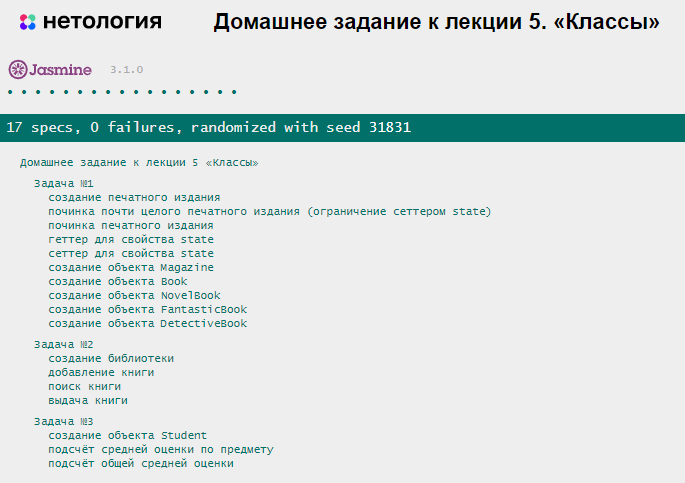
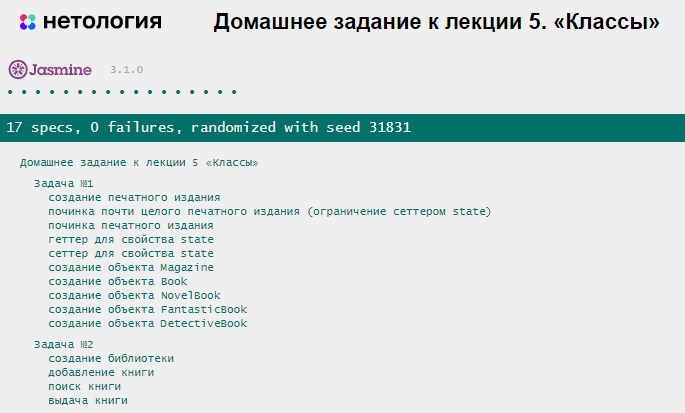
Небольшие обновления

Changed region(s): [[0.0, 0.1162, 1.0, 0.9879], [0.3066, 0.0291, 0.981, 0.0872], [0.0307, 0.0291, 0.2453, 0.0872]]

diff --git a/5.classes/tests.js b/5.classes/tests.js
@@ -113,30 +113,4 @@ describe('Домашнее задание к лекции 5 «Классы»', (
       expect(secondBook).toEqual(null);
     });
   })
-
-  describe('Задача №3', () => {
-    let student;
-  
-    beforeEach(function(){
-      student = new Student("Иван Петров");
-    });
-
-    it('создание объекта Student', () => {
-      expect(student).toBeDefined();
-    });
-
-    it('подсчёт средней оценки по предмету', () => {
-      student.addMark(3, "algebra");
-      student.addMark(5, "algebra");
-      expect(student.getAverageBySubject("algebra")).toEqual(4);
-    });
-
-    it('подсчёт общей средней оценки', () => {
-      student.addMark(3, "algebra");
-      student.addMark(5, "algebra");
-      student.addMark(5, "history");
-      student.addMark(5, "history");
-      expect(student.getAverage()).toEqual(4.5);
-    });
-  });
 });

diff --git a/1.base-concepts/README.md b/1.base-concepts/README.md
@@ -1,5 +1,6 @@
 # Домашнее задание к лекции 1 «Основные понятия»
 
+Перед выполнением заданий ознакомьтесь с блоком [перед началом работы над проектом](../README.md#перед-началом-работы-над-проектом). Выполните форк репозитория, разверните его с помощью Github pages и выполните задание [Работа с отладкой в браузере](../0.debugger/README.md).
 ## Задача 1
 
 Написать программу для решения квадратных уравнений (ax² + bx + c = 0).
@@ -23,14 +24,13 @@
 
 ### Что нужно сделать
 1. Реализуйте функцию `calculateTotalMortgage`, которая принимает четыре аргумента: `percent`, `contribution`, `amount` и `countMonths`.
-2. Проконтролируйте корректность введённых данных. Для проверки значения можно использовать функцию [isNaN](https://developer.mozilla.org/ru/docs/Web/JavaScript/Reference/Global_Objects/isNaN).
-3. Преобразуйте процентную ставку из диапазона от 0 до 100 в диапазон от 0 до 1 и из готовой ставки — в месячную.
-4. Посчитайте тело кредита — сумму, которую нужно вернуть банку (сумма кредита минус первоначальный взнос).
-5. Ежемесячная оплата рассчитывается по формуле: `Платёж = S * (P + (P / (((1 + P)^n) - 1)))`, где:
-`S` — тело кредита, `P` — 1/12 процентной ставки (от 0 до 1), `n` — количество месяцев, `^` — возведение в степень.
-6. Посчитайте общую сумму, которую придётся заплатить клиенту.
-7. Округлите результат до двух значений после запятой. Результат округления должен быть **числом**.
-8. Верните результат из функции. Результатом функции должно быть значение числового типа.
+2. Преобразуйте процентную ставку из диапазона от 0 до 100 в диапазон от 0 до 1 и из годовой ставки — в месячную.
+3. Посчитайте тело кредита — сумму, которую нужно вернуть банку (сумма кредита минус первоначальный взнос).
+4. Ежемесячная оплата рассчитывается по формуле: `Платёж = S * (P + (P / (((1 + P)^n) - 1)))`, где:
+`S` — тело кредита, `P` — 1/12 процентной ставки (от 0 до 1), `n` — количество месяцев, `^` — возведение в степень. Для возведения в степень используйте оператор — `**` или функцию [Math.pow](https://developer.mozilla.org/ru/docs/Web/JavaScript/Reference/Global_Objects/Math/pow).
+5. Посчитайте общую сумму, которую придётся заплатить клиенту.
+6. Округлите результат до двух значений после запятой. Результат округления должен быть **числом**.
+7. Верните результат из функции. Результатом функции должно быть значение числового типа.
 
 ##### Примеры результатов
 
@@ -56,13 +56,13 @@
 
 ## Решение задач
 1. Откройте файл `task.js` в вашем редакторе кода и выполните задание. <br>
-2. Проверьте соблюдение [кодстайла](https://github.com/netology-code/codestyle/tree/master/js#%D0%BF%D1%80%D0%B0%D0%B2%D0%B8%D0%BB%D0%B0-%D0%BE%D1%84%D0%BE%D1%80%D0%BC%D0%BB%D0%B5%D0%BD%D0%B8%D1%8F-javascript-%D0%BA%D0%BE%D0%B4%D0%B0).
+2. Проверьте соблюдение [кодстайла](https://github.com/netology-code/codestyle/tree/master/js#%D0%BF%D1%80%D0%B0%D0%B2%D0%B8%D0%BB%D0%B0-%D0%BE%D1%84%D0%BE%D1%80%D0%BC%D0%BB%D0%B5%D0%BD%D0%B8%D1%8F-javascript-%D0%BA%D0%BE%D0%B4%D0%B0). Форматируйте ваш код через форматтер https://codebeautify.org/jsviewer.
 3. Вы можете написать функцию `testCase` для проверки вашей работы. <br>
 4. Добавьте файл `task.js` в индекс `git` с помощью команды `git add %file-path%`, где `%file-path%` — путь до целевого файла `git add ./1.base-concepts/task.js`. <br>
 5. Сделайте коммит, используя команду `git commit -m '%comment%'`, где `%comment%`, — это произвольный комментарий к вашему коммиту `git commit -m 'Первое задание полностью готово'`. <br>
 6. Опубликуйте код в репозиторий `homeworks` с помощью команды `git push -u origin main`.<br>
-7. Пришлите ссылку на репозиторий через личный кабинет на сайте [Нетологии](https://netology.ru/).<br>
-8. Пришлите ссылку на страницу GitHub Pages — страницу с автотестами: `https://%USERNAME%.github.io/bjs-2-homeworks/1.base-concepts/index`.
+7. На проверку пришлите 2 ссылки. На файл с решением (`task.js`) и на страницу GitHub Pages — страницу с автотестами: `https://%USERNAME%.github.io/bjs-2-homeworks/1.base-concepts`.
+
 
 **_Никакие файлы прикреплять не нужно._**
 

diff --git a/7.async/README.md b/7.async/README.md
@@ -30,7 +30,7 @@
   * Проверьте наличие значения в свойстве `intervalId`. Если в нём присутствует значение, то завершайте выполнение метода. Программа не должна позволять создавать несколько интервалов.
   * Создавайте новый интервал, в котором каждую секунду выполняйте действия:
      - Перебирайте все звонки с помощью метода `forEach`.
-     - При переборе каждый звонок проверяйте на возможность его запуска: *свойство `time` совпадает с текущим временем, и звонок может выполняться*.
+     - При переборе каждый звонок проверяйте на возможность его запуска: *свойство `time` совпадает с текущим временем, и звонок может выполняться (в свойстве `canCall` находится `true`)*.
     3. При истином условии (необходимости запуска звонка) в свойство `canCall` (возможность вызова звонка) присваивайте `false` и вызывайте колбек звонка (свойство `callback`).
   * Результат создания интервала сохраняйте в свойство `intervalId`.
 
@@ -57,13 +57,12 @@
 
 ## Решение задач
 1. Откройте файл `task.js` в вашем редакторе кода и выполните задание. <br>
-2. Проверьте соблюдение [кодстайла](https://github.com/netology-code/codestyle/tree/master/js#%D0%BF%D1%80%D0%B0%D0%B2%D0%B8%D0%BB%D0%B0-%D0%BE%D1%84%D0%BE%D1%80%D0%BC%D0%BB%D0%B5%D0%BD%D0%B8%D1%8F-javascript-%D0%BA%D0%BE%D0%B4%D0%B0).
+2. Проверьте соблюдение [кодстайла](https://github.com/netology-code/codestyle/tree/master/js#%D0%BF%D1%80%D0%B0%D0%B2%D0%B8%D0%BB%D0%B0-%D0%BE%D1%84%D0%BE%D1%80%D0%BC%D0%BB%D0%B5%D0%BD%D0%B8%D1%8F-javascript-%D0%BA%D0%BE%D0%B4%D0%B0). Форматируйте ваш код через форматтер https://codebeautify.org/jsviewer.
 3. Вы можете написать функцию `testCase` для проверки вашей работы. <br>
 4. Добавьте файл `task.js` в индекс `git` с помощью команды `git add %file-path%`, где `%file-path%` — путь до целевого файла `git add ./7.async/task.js`. <br>
 5. Сделайте коммит, используя команду `git commit -m '%comment%'`, где `%comment%` — это произвольный комментарий к вашему коммиту `git commit -m 'Седьмое задание полностью готово'`. <br>
 6. Опубликуйте код в репозиторий `homeworks` с помощью команды `git push -u origin main`.<br>
-7. Пришлите ссылку на репозиторий через личный кабинет на сайте [Нетологии](https://netology.ru/).<br>
-8. Пришлите ссылку на страницу GitHub Pages — страницу с автотестами: `https://%USERNAME%.github.io/bjs-2-homeworks/7.async/index`.
+7. На проверку пришлите 2 ссылки. На файл с решением (`task.js`) и на страницу GitHub Pages — страницу с автотестами: `https://%USERNAME%.github.io/bjs-2-homeworks/7.async`.
 
 **_Никакие файлы прикреплять не нужно._**
 

diff --git a/2.functions/README.md b/2.functions/README.md
@@ -116,13 +116,12 @@ console.log(makeWork(arr, averageEvenElementsWorker)); // максимум из 
 
 ## Решение задач
 1.  Откройте файл `task.js` в вашем редакторе кода и выполните задание. <br>
-2.  Проверьте соблюдение [кодстайла](https://github.com/netology-code/codestyle/tree/master/js#%D0%BF%D1%80%D0%B0%D0%B2%D0%B8%D0%BB%D0%B0-%D0%BE%D1%84%D0%BE%D1%80%D0%BC%D0%BB%D0%B5%D0%BD%D0%B8%D1%8F-javascript-%D0%BA%D0%BE%D0%B4%D0%B0).
+2.  Проверьте соблюдение [кодстайла](https://github.com/netology-code/codestyle/tree/master/js#%D0%BF%D1%80%D0%B0%D0%B2%D0%B8%D0%BB%D0%B0-%D0%BE%D1%84%D0%BE%D1%80%D0%BC%D0%BB%D0%B5%D0%BD%D0%B8%D1%8F-javascript-%D0%BA%D0%BE%D0%B4%D0%B0). Форматируйте ваш код через форматтер https://codebeautify.org/jsviewer.
 3.  Вы можете написать функцию `testCase` для проверки вашей работы. <br>
 4.  Добавьте файл `task.js` в индекс `git` с помощью команды `git add %file-path%`, где `%file-path%` — путь до целевого файла `git add ./2.functions/task.js`. <br>
 5.  Сделайте коммит, используя команду `git commit -m '%comment%'`, где `%comment%` — это произвольный комментарий к вашему коммиту `git commit -m 'Второе задание полностью готово'`. <br>
 6.  Опубликуйте код в репозиторий `homeworks` с помощью команды `git push -u origin main`.<br>
-7.  Пришлите ссылку на репозиторий через личный кабинет на сайте [Нетологии](https://netology.ru/).<br>
-8.  Пришлите ссылку на страницу GitHub Pages — страницу с автотестами: `https://%USERNAME%.github.io/bjs-2-homeworks/2.functions/index`.
+7. На проверку пришлите 2 ссылки. На файл с решением (`task.js`) и на страницу GitHub Pages — страницу с автотестами: `https://%USERNAME%.github.io/bjs-2-homeworks/2.functions`.
 
 **_Никакие файлы прикреплять не нужно._**
 

diff --git a/3.arrays/README.md b/3.arrays/README.md
@@ -63,13 +63,12 @@ console.log(getUsersNamesInAgeRange(people, "инопланетянин")); // 0
 
 ## Решение задач
 1. Откройте файл `task.js` в вашем редакторе кода и выполните задание. <br>
-2. Проверьте соблюдение [кодстайла](https://github.com/netology-code/codestyle/tree/master/js#%D0%BF%D1%80%D0%B0%D0%B2%D0%B8%D0%BB%D0%B0-%D0%BE%D1%84%D0%BE%D1%80%D0%BC%D0%BB%D0%B5%D0%BD%D0%B8%D1%8F-javascript-%D0%BA%D0%BE%D0%B4%D0%B0).
+2. Проверьте соблюдение [кодстайла](https://github.com/netology-code/codestyle/tree/master/js#%D0%BF%D1%80%D0%B0%D0%B2%D0%B8%D0%BB%D0%B0-%D0%BE%D1%84%D0%BE%D1%80%D0%BC%D0%BB%D0%B5%D0%BD%D0%B8%D1%8F-javascript-%D0%BA%D0%BE%D0%B4%D0%B0). Форматируйте ваш код через форматтер https://codebeautify.org/jsviewer.
 3. Вы можете написать функцию `testCase` для проверки вашей работы. <br>
 4. Добавьте файл `task.js` в индекс `git` с помощью команды `git add %file-path%`, где `%file-path%` — путь до целевого файла `git add ./3.arrays/task.js`. <br>
 5. Сделайте коммит, используя команду `git commit -m '%comment%'`, где `%comment%` — это произвольный комментарий к вашему коммиту `git commit -m 'Третье задание полностью готово'`. <br>
 6. Опубликуйте код в репозиторий `homeworks` с помощью команды `git push -u origin main`.<br>
-7. Пришлите ссылку на репозиторий через личный кабинет на сайте [Нетологии](https://netology.ru/).<br>
-8. Пришлите ссылку на страницу GitHub Pages — страницу с автотестами: `https://%USERNAME%.github.io/bjs-2-homeworks/3.arrays/index`.
+7. На проверку пришлите 2 ссылки. На файл с решением (`task.js`) и на страницу GitHub Pages — страницу с автотестами: `https://%USERNAME%.github.io/bjs-2-homeworks/3.arrays`.
 
 **_Никакие файлы прикреплять не нужно._**
 

diff --git a/8.decorators/README.md b/8.decorators/README.md
@@ -149,13 +149,12 @@ setTimeout(() => {
 
 ## Решение задач
 1. Откройте файл `task.js` в вашем редакторе кода и выполните задание. <br>
-2. Проверьте соблюдение [кодстайла](https://github.com/netology-code/codestyle/tree/master/js#%D0%BF%D1%80%D0%B0%D0%B2%D0%B8%D0%BB%D0%B0-%D0%BE%D1%84%D0%BE%D1%80%D0%BC%D0%BB%D0%B5%D0%BD%D0%B8%D1%8F-javascript-%D0%BA%D0%BE%D0%B4%D0%B0).
+2. Проверьте соблюдение [кодстайла](https://github.com/netology-code/codestyle/tree/master/js#%D0%BF%D1%80%D0%B0%D0%B2%D0%B8%D0%BB%D0%B0-%D0%BE%D1%84%D0%BE%D1%80%D0%BC%D0%BB%D0%B5%D0%BD%D0%B8%D1%8F-javascript-%D0%BA%D0%BE%D0%B4%D0%B0). Форматируйте ваш код через форматтер https://codebeautify.org/jsviewer.
 3. Вы можете написать функцию `testCase` для проверки вашей работы. <br>
 4. Добавьте файл `task.js` в индекс `git` с помощью команды `git add %file-path%`, где `%file-path%` — путь до целевого файла `git add ./8.decorators/task.js`. <br>
 5. Сделайте коммит, используя команду `git commit -m '%comment%'`, где `%comment%` — это произвольный комментарий к вашему коммиту `git commit -m 'Восьмое задание полностью готово'`. <br>
 6. Опубликуйте код в репозиторий `homeworks` с помощью команды `git push -u origin main`.<br>
-7. Пришлите ссылку на репозиторий через личный кабинет на сайте [Нетологии](https://netology.ru/).<br>
-8. Пришлите ссылку на страницу GitHub Pages — страницу с автотестами: `https://%USERNAME%.github.io/bjs-2-homeworks/8.decorators/index`)
+7. На проверку пришлите 2 ссылки. На файл с решением (`task.js`) и на страницу GitHub Pages — страницу с автотестами: `https://%USERNAME%.github.io/bjs-2-homeworks/8.decorators`.
 
 **_Никакие файлы прикреплять не нужно._**
 

diff --git a/6.exception-closure/README.md b/6.exception-closure/README.md
@@ -48,13 +48,12 @@
 
 ## Решение задач
 1. Откройте файл `task.js` в вашем редакторе кода и выполните задание. <br>
-2. Проверьте соблюдение [кодстайла](https://github.com/netology-code/codestyle/tree/master/js#%D0%BF%D1%80%D0%B0%D0%B2%D0%B8%D0%BB%D0%B0-%D0%BE%D1%84%D0%BE%D1%80%D0%BC%D0%BB%D0%B5%D0%BD%D0%B8%D1%8F-javascript-%D0%BA%D0%BE%D0%B4%D0%B0).
+2. Проверьте соблюдение [кодстайла](https://github.com/netology-code/codestyle/tree/master/js#%D0%BF%D1%80%D0%B0%D0%B2%D0%B8%D0%BB%D0%B0-%D0%BE%D1%84%D0%BE%D1%80%D0%BC%D0%BB%D0%B5%D0%BD%D0%B8%D1%8F-javascript-%D0%BA%D0%BE%D0%B4%D0%B0). Форматируйте ваш код через форматтер https://codebeautify.org/jsviewer.
 3. Вы можете написать функцию `testCase` для проверки вашей работы. <br>
 4. Добавьте файл `task.js` в индекс `git` с помощью команды `git add %file-path%`, где `%file-path%` — путь до целевого файла `git add ./6.exception-closure/task.js`. <br>
 5. Сделайте коммит, используя команду `git commit -m '%comment%'`, где `%comment%` — это произвольный комментарий к вашему коммиту `git commit -m 'Шестое задание полностью готово'`. <br>
 6. Опубликуйте код в репозиторий `homeworks` с помощью команды `git push -u origin main`.<br>
-7. Пришлите ссылку на репозиторий через личный кабинет на сайте [Нетологии](https://netology.ru/).<br>
-8. Пришлите ссылку на страницу GitHub Pages — страницу с автотестами: `https://%USERNAME%.github.io/bjs-2-homeworks/6.exception-closure/index`.
+7. На проверку пришлите 2 ссылки. На файл с решением (`task.js`) и на страницу GitHub Pages — страницу с автотестами: `https://%USERNAME%.github.io/bjs-2-homeworks/6.exception-closure`.
 
 **_Никакие файлы прикреплять не нужно._**
 

diff --git a/4.objects/README.md b/4.objects/README.md
@@ -50,13 +50,12 @@ console.log(student2)
 
 ## Решение задач
 1. Откройте файл `task.js` в вашем редакторе кода и выполните задание. <br>
-2. Проверьте соблюдение [кодстайла](https://github.com/netology-code/codestyle/tree/master/js#%D0%BF%D1%80%D0%B0%D0%B2%D0%B8%D0%BB%D0%B0-%D0%BE%D1%84%D0%BE%D1%80%D0%BC%D0%BB%D0%B5%D0%BD%D0%B8%D1%8F-javascript-%D0%BA%D0%BE%D0%B4%D0%B0).
+2. Проверьте соблюдение [кодстайла](https://github.com/netology-code/codestyle/tree/master/js#%D0%BF%D1%80%D0%B0%D0%B2%D0%B8%D0%BB%D0%B0-%D0%BE%D1%84%D0%BE%D1%80%D0%BC%D0%BB%D0%B5%D0%BD%D0%B8%D1%8F-javascript-%D0%BA%D0%BE%D0%B4%D0%B0). Форматируйте ваш код через форматтер https://codebeautify.org/jsviewer.
 3. Вы можете написать функцию `testCase` для проверки вашей работы. <br>
 4. Добавьте файл `task.js` в индекс `git` с помощью команды `git add %file-path%`, где `%file-path%` — путь до целевого файла `git add ./4.objects/task.js`. <br>
 5. Сделайте коммит, используя команду `git commit -m '%comment%'`, где `%comment%` — это произвольный комментарий к вашему коммиту `git commit -m 'Четвёртое задание полностью готово'`. <br>
 6. Опубликуйте код в репозиторий `homeworks` с помощью команды `git push -u origin main`.<br>
-7. Пришлите ссылку на репозиторий через личный кабинет на сайте [Нетологии](https://netology.ru/).<br>
-8. Пришлите ссылку на страницу GitHub Pages — страницу с автотестами: `https://%USERNAME%.github.io/bjs-2-homeworks/4.objects/index`.
+7. На проверку пришлите 2 ссылки. На файл с решением (`task.js`) и на страницу GitHub Pages — страницу с автотестами: `https://%USERNAME%.github.io/bjs-2-homeworks/4.objects`.
 
 **_Никакие файлы прикреплять не нужно._**
 
